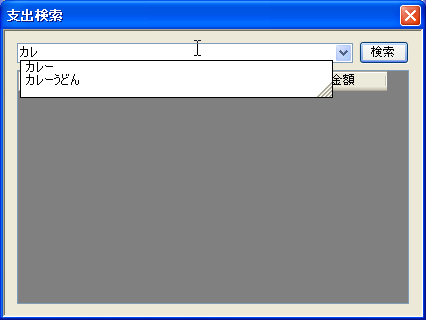
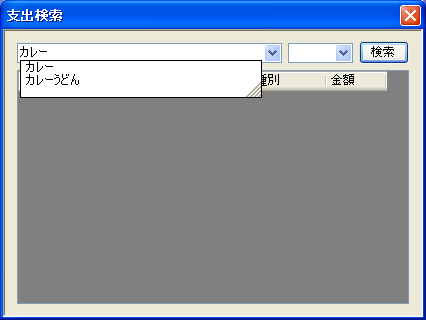
ADD:種別コンボボックス

Changed region(s): [[0.5798, 0.125, 0.7934, 0.3125], [0.4577, 0.125, 0.4883, 0.1562]]

diff --git a/source/stylesheets/all.css.scss b/source/stylesheets/all.css.scss
@@ -595,6 +595,19 @@ table.private-check-error {
   }
 }
 
+table.subform-type-combo {
+  width: 46%;
+  margin-top: 10px;
+  td {
+    width: 50%;
+    text-align: center;
+    padding-bottom: 16px;
+  }
+  .small {
+    width: 90%;
+  }
+}
+
 table.subform-load-error {
   width: 100%;
   border: 1px solid #000000;
